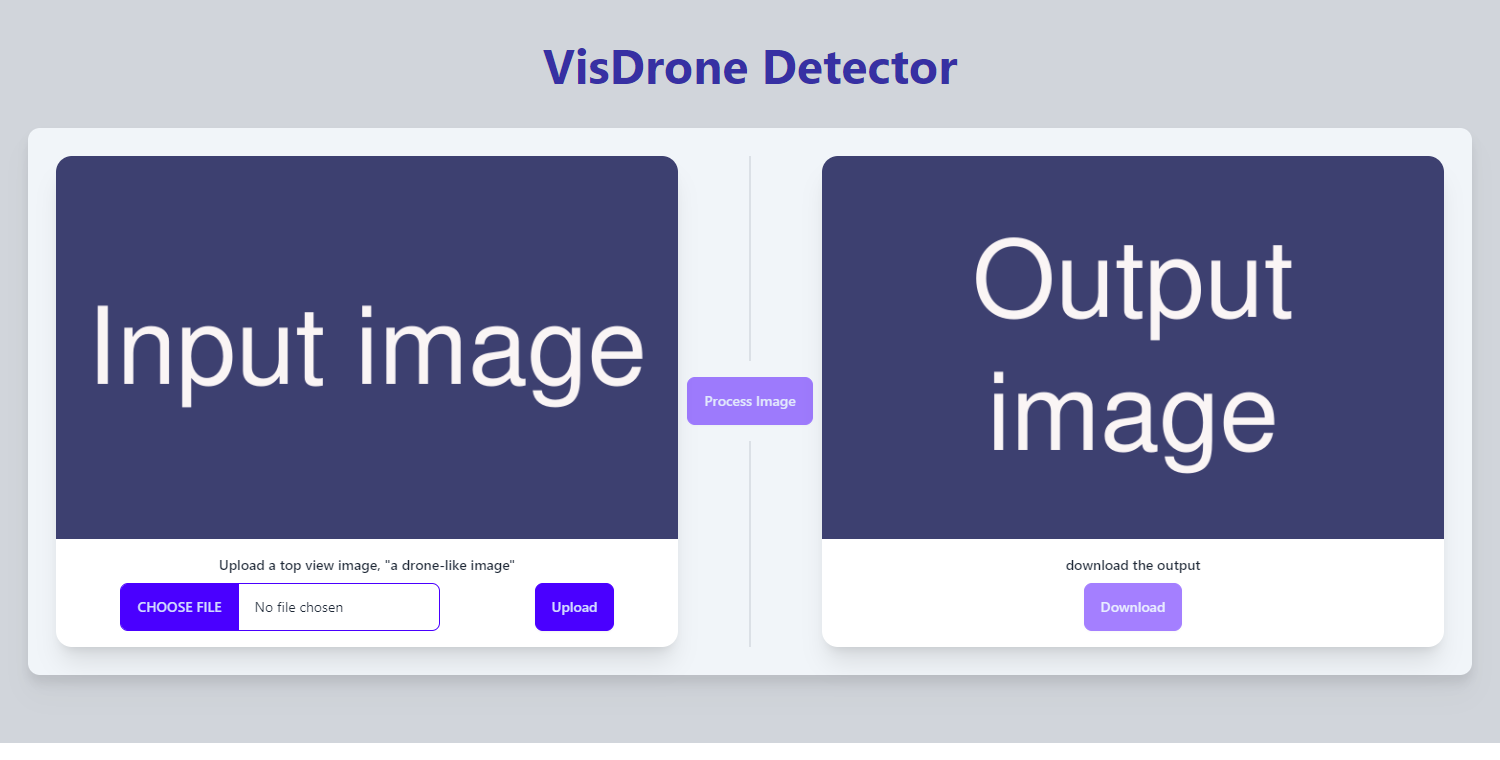
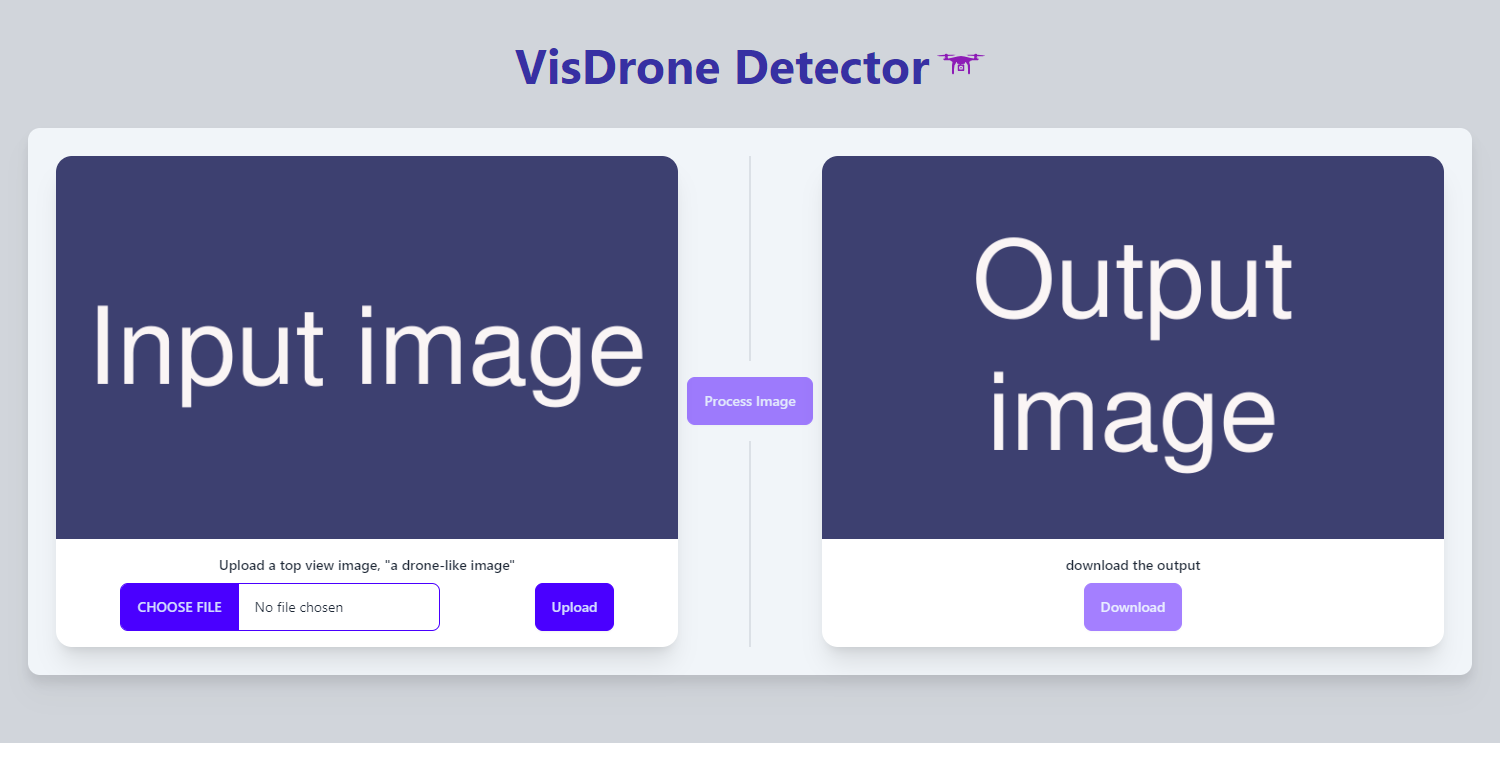
adds reproduction instructions + ui refactoring

Changed region(s): [[0.3373, 0.0605, 0.6747, 0.1211]]

diff --git a/visdrone_det_app/templates/svg_icons/drone.html b/visdrone_det_app/templates/svg_icons/drone.html
@@ -1,0 +1,12 @@
+<svg
+  xmlns="http://www.w3.org/2000/svg"
+  width="1em"
+  height="1em"
+  viewBox="0 0 100 100"
+>
+  <path
+    fill="#8d1bb6"
+    d="M19.53 28.49a3.85 3.85 0 0 0-3.533 2.343C6.706 31.364-.029 32.257 0 32.955c.027.693 6.712.997 15.928.724c.32.862.936 1.58 1.738 2.027H16.17v2.742h-1.83a.874.874 0 0 0-.875.874v1.954c0 .483.391.874.874.874h12.316c3.103.73 3.45 1.843 5.774 3.88c-.38 2.113-.94 4.42-1.378 6.414v16.973a2.092 2.092 0 1 0 4.185 0V61.21c-.048-6.9 1.066-9.69 4.905-15.031l.965-.448c0 4.146 2.866 4.395 6.908 5.32h-3.036c-.924 0-1.674.75-1.674 1.675v10c0 .924.75 1.674 1.674 1.674h10.044c.924 0 1.674-.75 1.674-1.674v-10c0-.925-.75-1.674-1.674-1.674h-3.033c4.041-.928 6.905-1.176 6.905-5.321l.965.448c4.857 5.026 4.905 8.447 4.905 15.03v8.207a2.092 2.092 0 0 0 4.185 0V52.444c-.513-2.191-1.062-4.487-1.58-6.762c2.199-2.155 3.101-2.64 5.956-3.532h12.336a.874.874 0 0 0 .874-.874v-1.954a.874.874 0 0 0-.874-.874H83.83v-2.742h-1.496a3.85 3.85 0 0 0 1.738-2.027c9.216.273 15.901-.031 15.928-.724c.029-.698-6.706-1.59-15.997-2.122a3.852 3.852 0 0 0-6.943-.302c-9.307-.283-16.103.018-16.142.716c-.029.693 6.615 1.58 15.827 2.112a3.85 3.85 0 0 0 1.839 2.347h-1.496v2.742C67.654 38.426 60.352 33.685 50 33.49c-10.003.212-18.38 4.958-27.088 4.958v-2.742h-1.496a3.85 3.85 0 0 0 1.839-2.347c9.212-.532 15.856-1.42 15.827-2.112c-.039-.698-6.835-1-16.142-.716a3.85 3.85 0 0 0-3.41-2.04M50 53.503c2.347 0 4.276 1.929 4.276 4.276S52.347 62.055 50 62.055s-4.278-1.93-4.278-4.277s1.93-4.276 4.278-4.276m0 2.51c-.99 0-1.767.776-1.767 1.766s.777 1.766 1.767 1.766s1.765-.776 1.765-1.766s-.775-1.765-1.765-1.765"
+    color="#00529f"
+  />
+</svg>

diff --git a/visdrone_det_app/templates/index.html b/visdrone_det_app/templates/index.html
@@ -8,8 +8,9 @@
   <body class="h-full">
     <main class="py-10 px-7 h-full bg-gray-300">
       <!-- App Title -->
-      <h1 class="text-indigo-800 text-center text-2xl sm:text-5xl font-bold mb-10">
+      <h1 class="text-indigo-800 text-2xl sm:text-5xl font-bold mb-10 flex justify-center content-center gap-2">
         VisDrone Detector
+        {% include 'svg_icons/drone.html' %}
       </h1>
 
       <!-- Cards Container -->

diff --git a/visdrone_det_app/static/dist/css/output.css b/visdrone_det_app/static/dist/css/output.css
@@ -1585,6 +1585,10 @@ html {
   flex-direction: column;
 }
 
+.content-center {
+  align-content: center;
+}
+
 .items-center {
   align-items: center;
 }
@@ -1599,6 +1603,14 @@ html {
 
 .gap-7 {
   gap: 1.75rem;
+}
+
+.gap-2 {
+  gap: 0.5rem;
+}
+
+.self-end {
+  align-self: flex-end;
 }
 
 .rounded-xl {

diff --git a/visdrone_det_app/utils.py b/visdrone_det_app/utils.py
@@ -1,6 +1,7 @@
 import os
 from ultralytics import YOLO
 from PIL import Image
+from visdrone_det_app.settings import config
 
 
 BASEDIR = os.path.abspath(os.path.dirname(__file__))
@@ -13,7 +14,7 @@ def build_image_path(image_file_name, directory="images/uploads"):
 
 
 def process_image(image_file_name):
-    model = YOLO(f"{BASEDIR}/models/YOLOv8x.pt")
+    model = YOLO(f"{BASEDIR}/models/{config.MODEL_NAME}")
     image_path = build_image_path(image_file_name)
     image = Image.open(image_path).convert('RGB')
     result = model(image)

diff --git a/visdrone_det_app/settings.py b/visdrone_det_app/settings.py
@@ -8,3 +8,7 @@ load_dotenv()
 class Config:
     BASEDIR = os.path.abspath(os.path.dirname(__file__))
     SECRET_KEY = os.getenv('SECRET_KEY')
+    MODEL_NAME = os.getenv('MODEL_NAME')
+
+
+config = Config()

diff --git a/README.md b/README.md
@@ -11,6 +11,29 @@ This as a web interface for a [YOLOv8](https://docs.ultralytics.com/) model, of 
 - Tailwindcss
 - YOLOv8x model
 
+### Steps for running the app locally
+
+1. Clone the repo.
+2. Create a `models` directory inside `visdrone_det_app` directory and place a `YOLOv8` compatible model in there.
+3. Create a `.env` file in the `root` directory, in which the following variables should be assigned values.
+
+```bash
+SECRET_KEY='a secret key for the flask app'
+MODEL_NAME='The name of the model in use'
+# The model should exists in visdrone_det_app/models
+# the MODEL_NAME value should be the same as the name of the model file name
+```
+
+4. Create a `virtualenv` (if you want), I use [uv](https://docs.astral.sh/uv/).
+5. Install the dependencies using the `requirements.txt` file.
+   ```bash
+    uv pip install -r requirements.txt
+   ```
+6. run the app
+   ```bash
+    uv run visdrone_det_app/main.py
+   ```
+
 ### Screenshots
 
 - Main page
